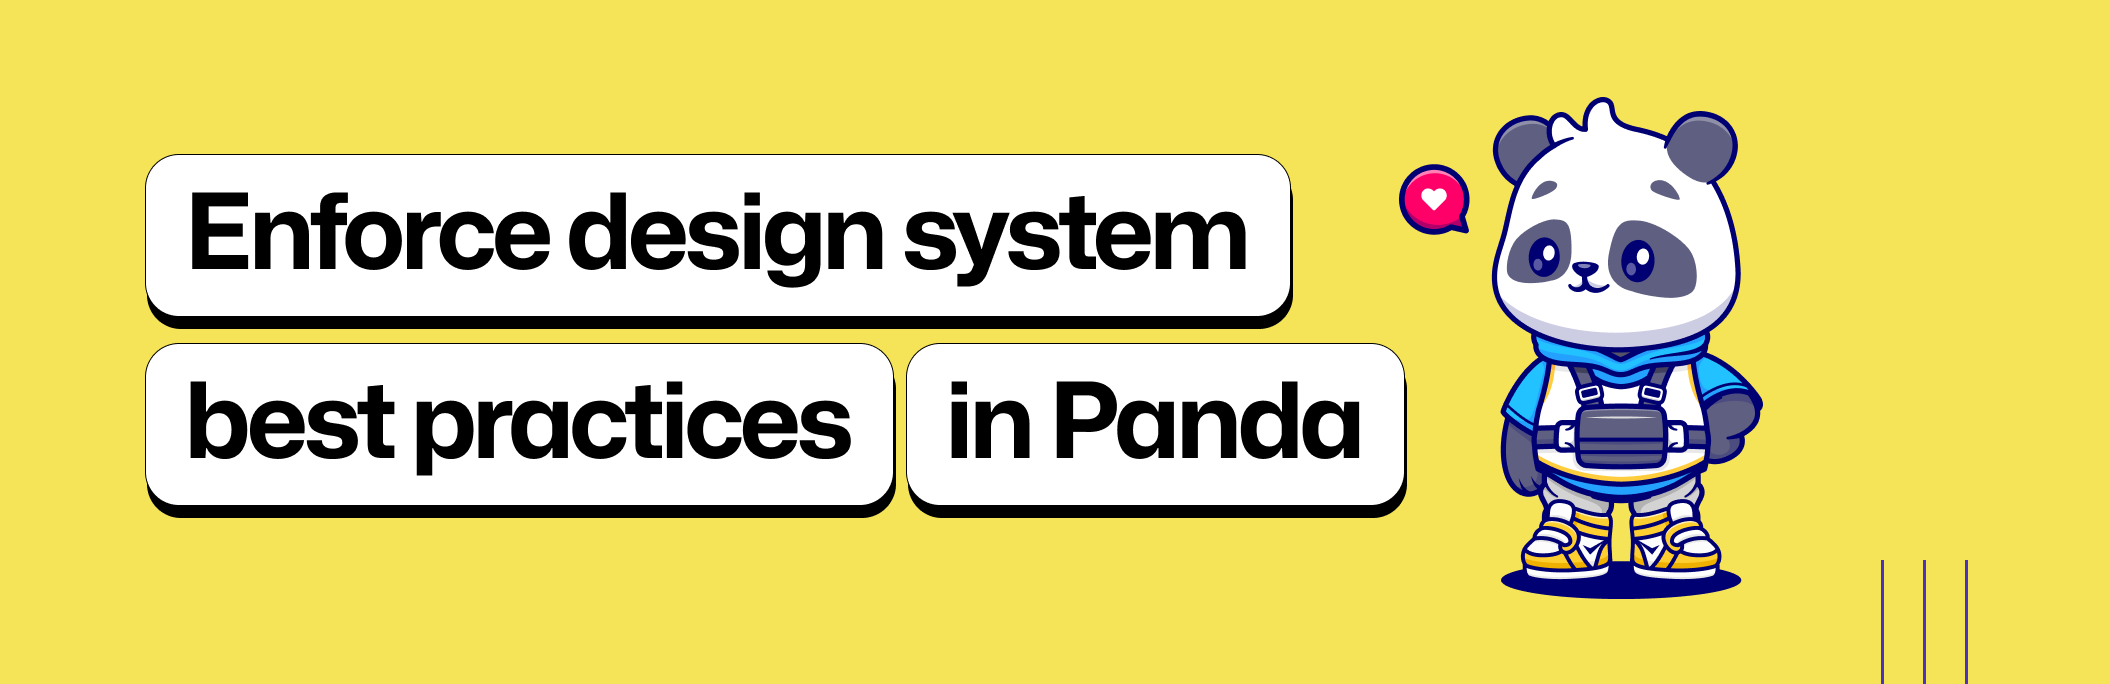
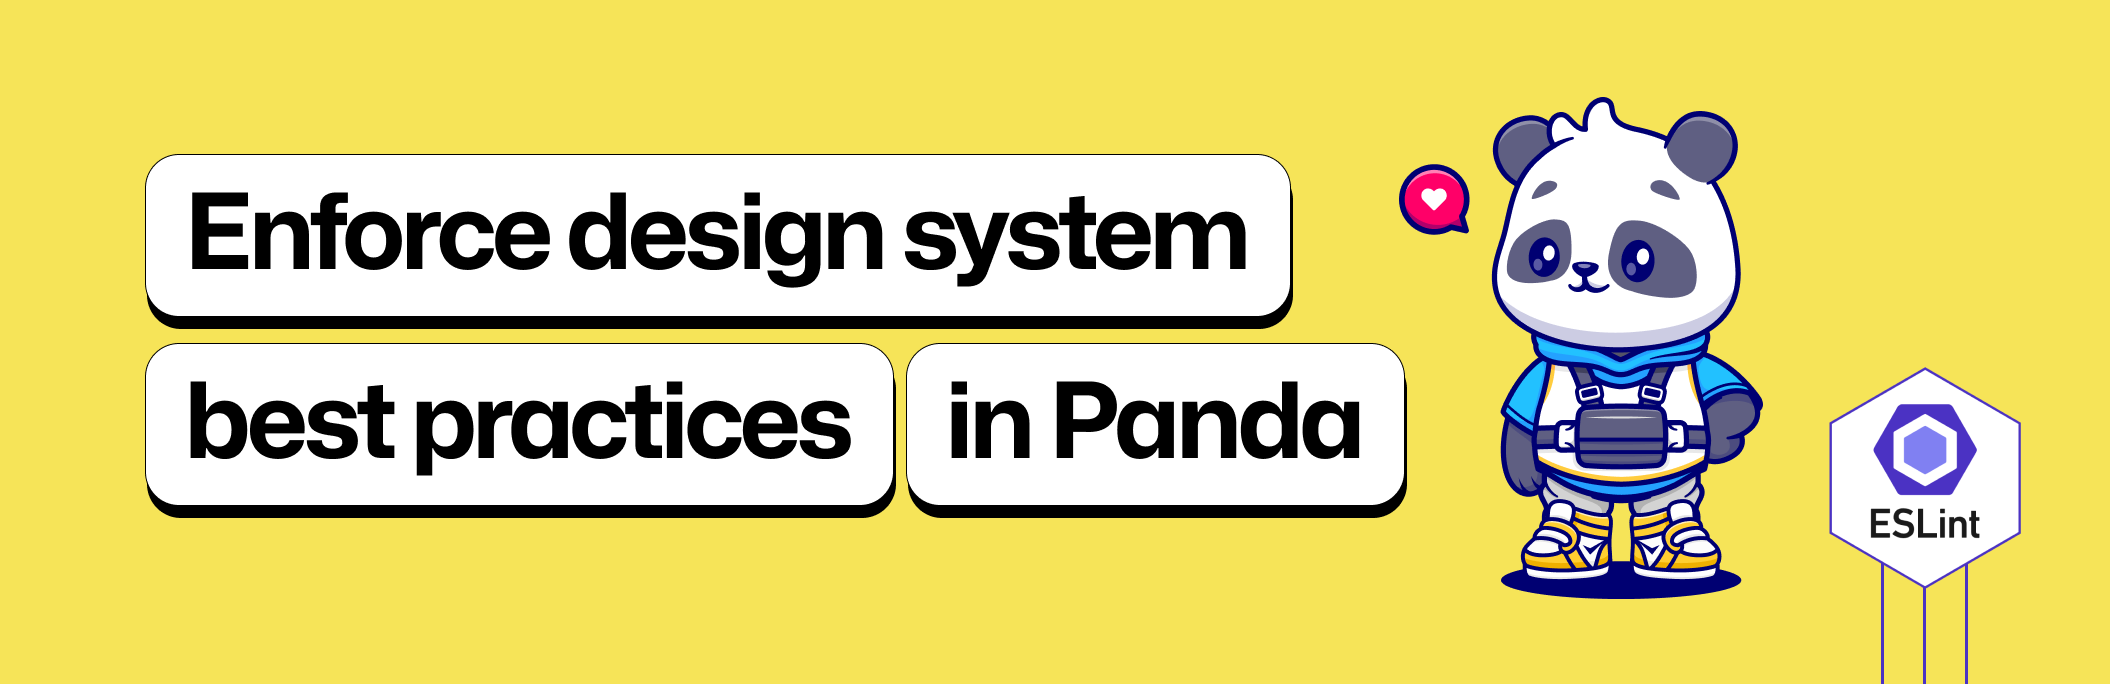
chore: update readme to use new image

Changed region(s): [[0.8626, 0.5219, 0.955, 0.8596]]

diff --git a/README.md b/README.md
@@ -5,7 +5,7 @@
 <p align="center">
     <a href="https://panda-css.com">
         <picture>
-            <img alt="Panda CSS" src="https://github.com/chakra-ui/panda/raw/main/.github/assets/banner.png" width="100%">
+            <img alt="Panda CSS" src="https://github.com/chakra-ui/eslint-plugin-panda/raw/main/.github/banner.png" width="100%">
         </picture>
     </a>
 </p>
